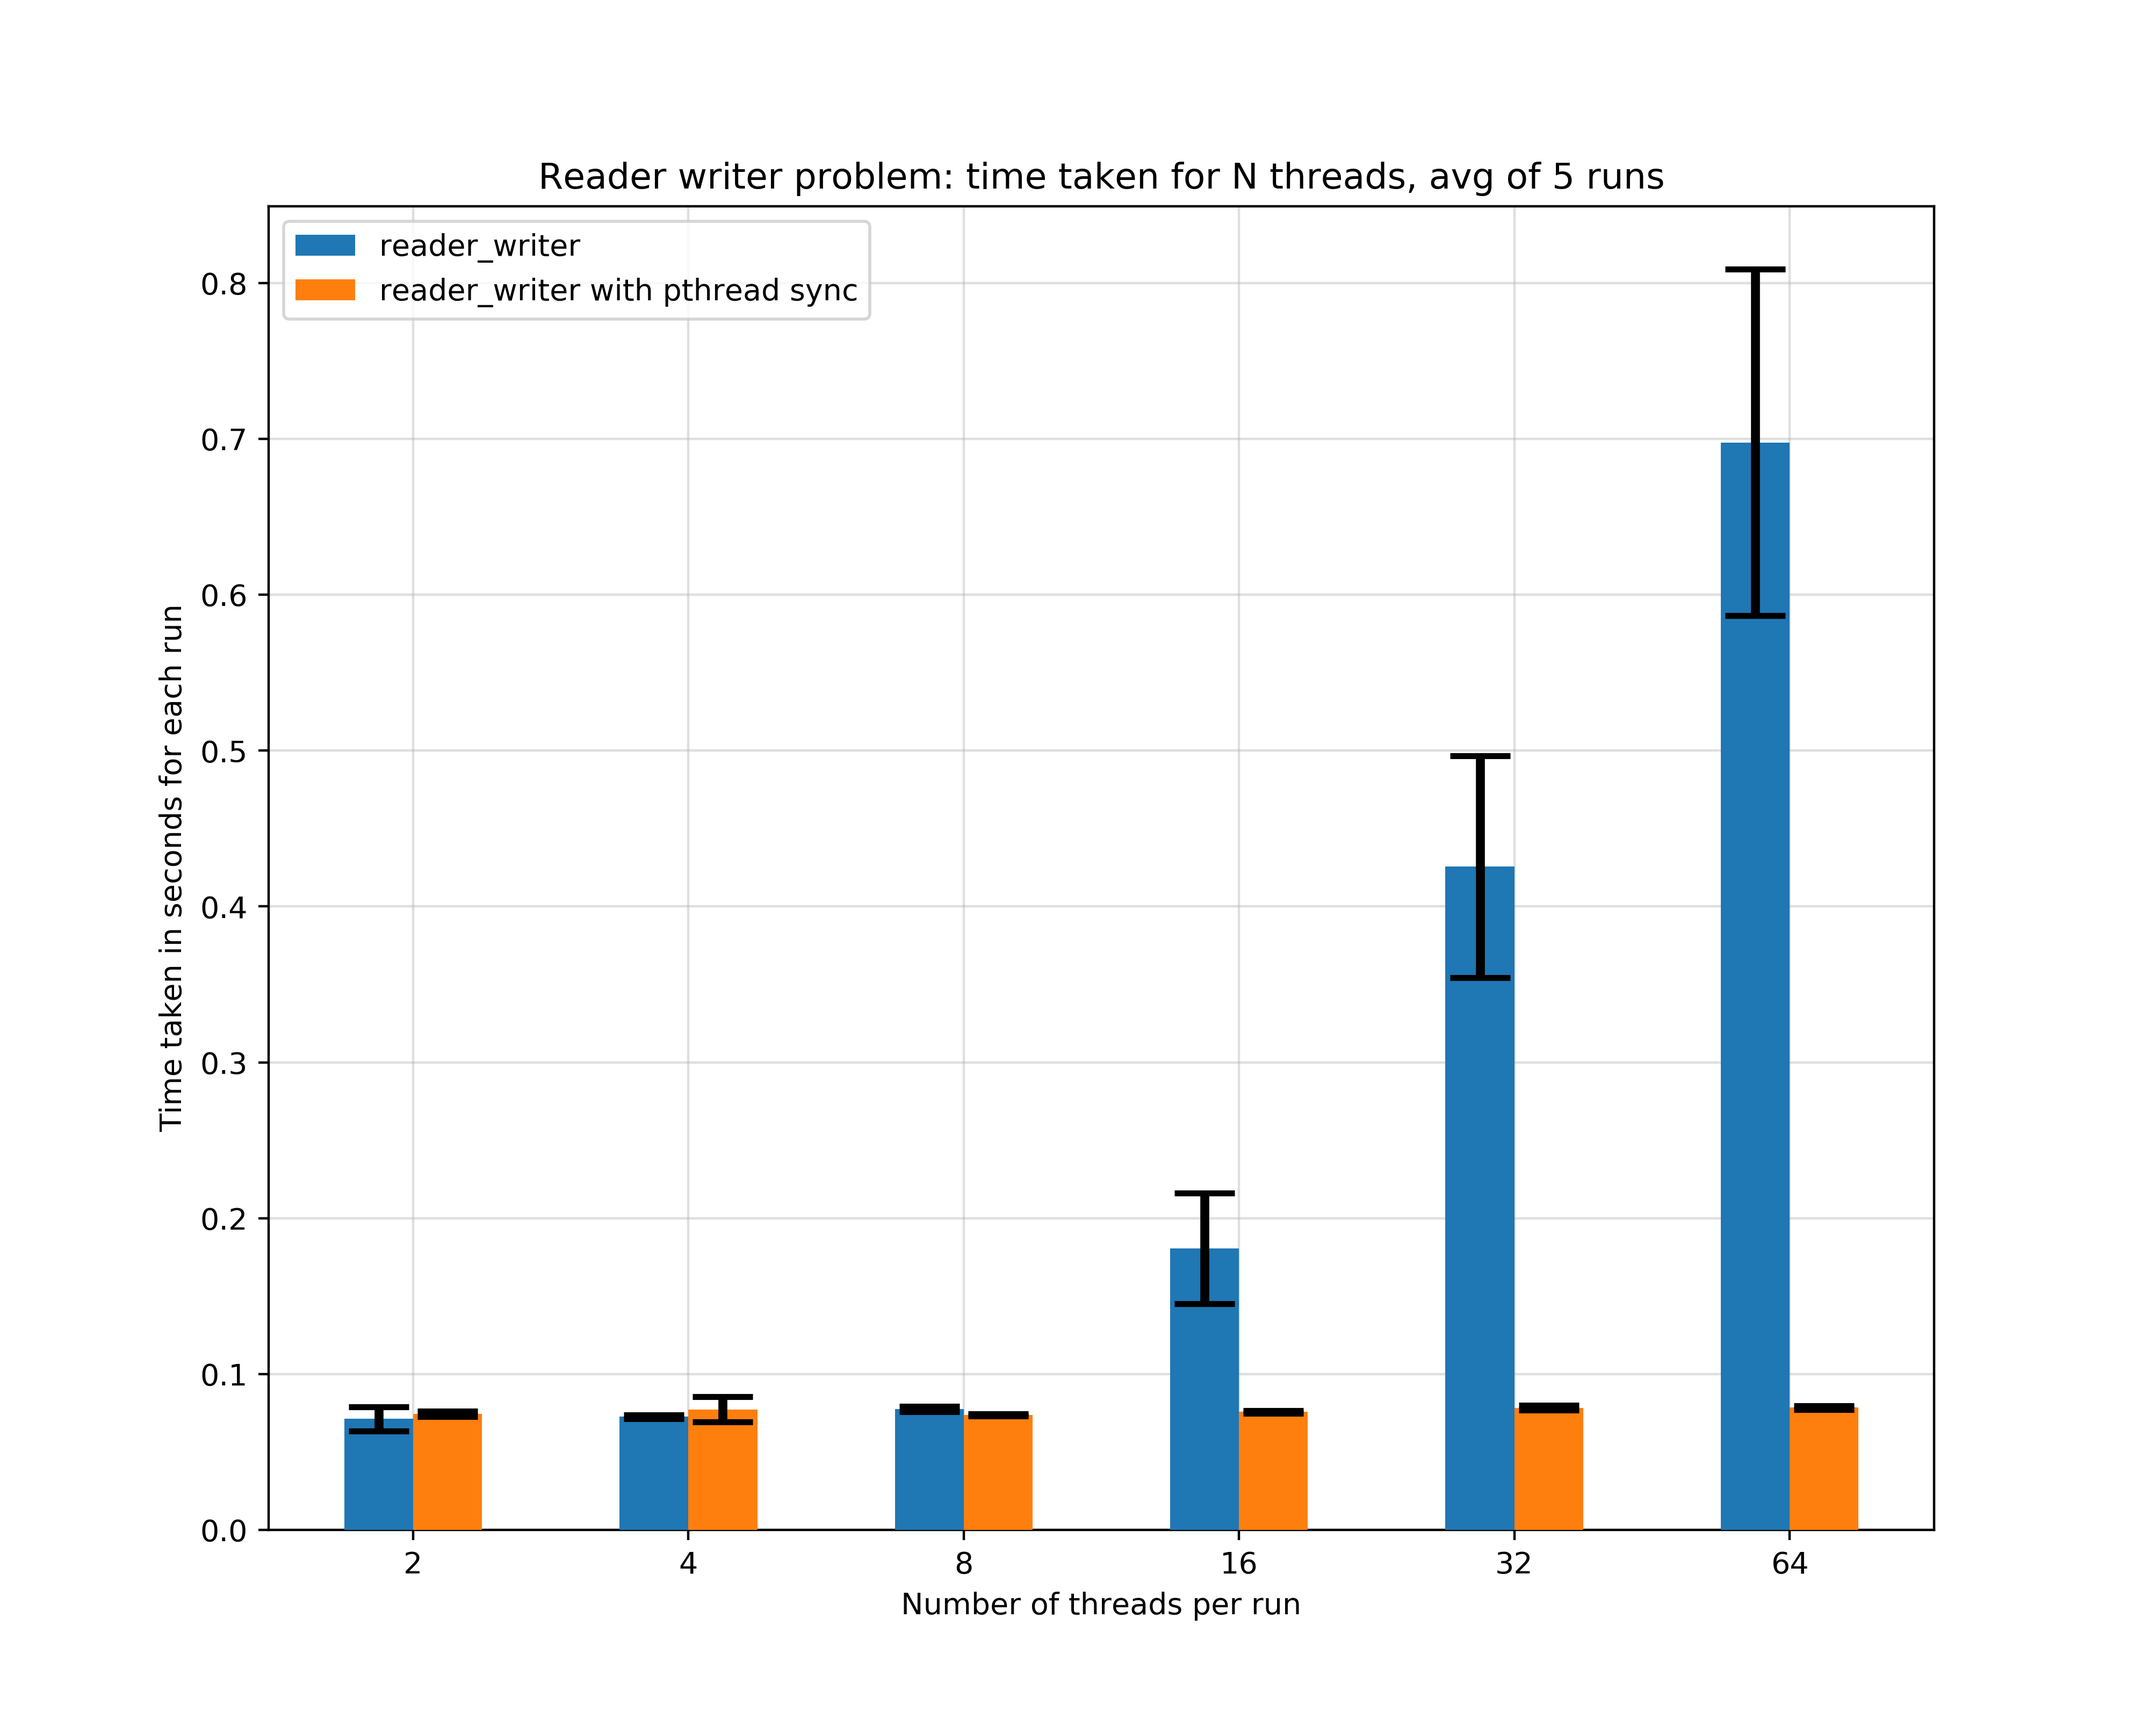
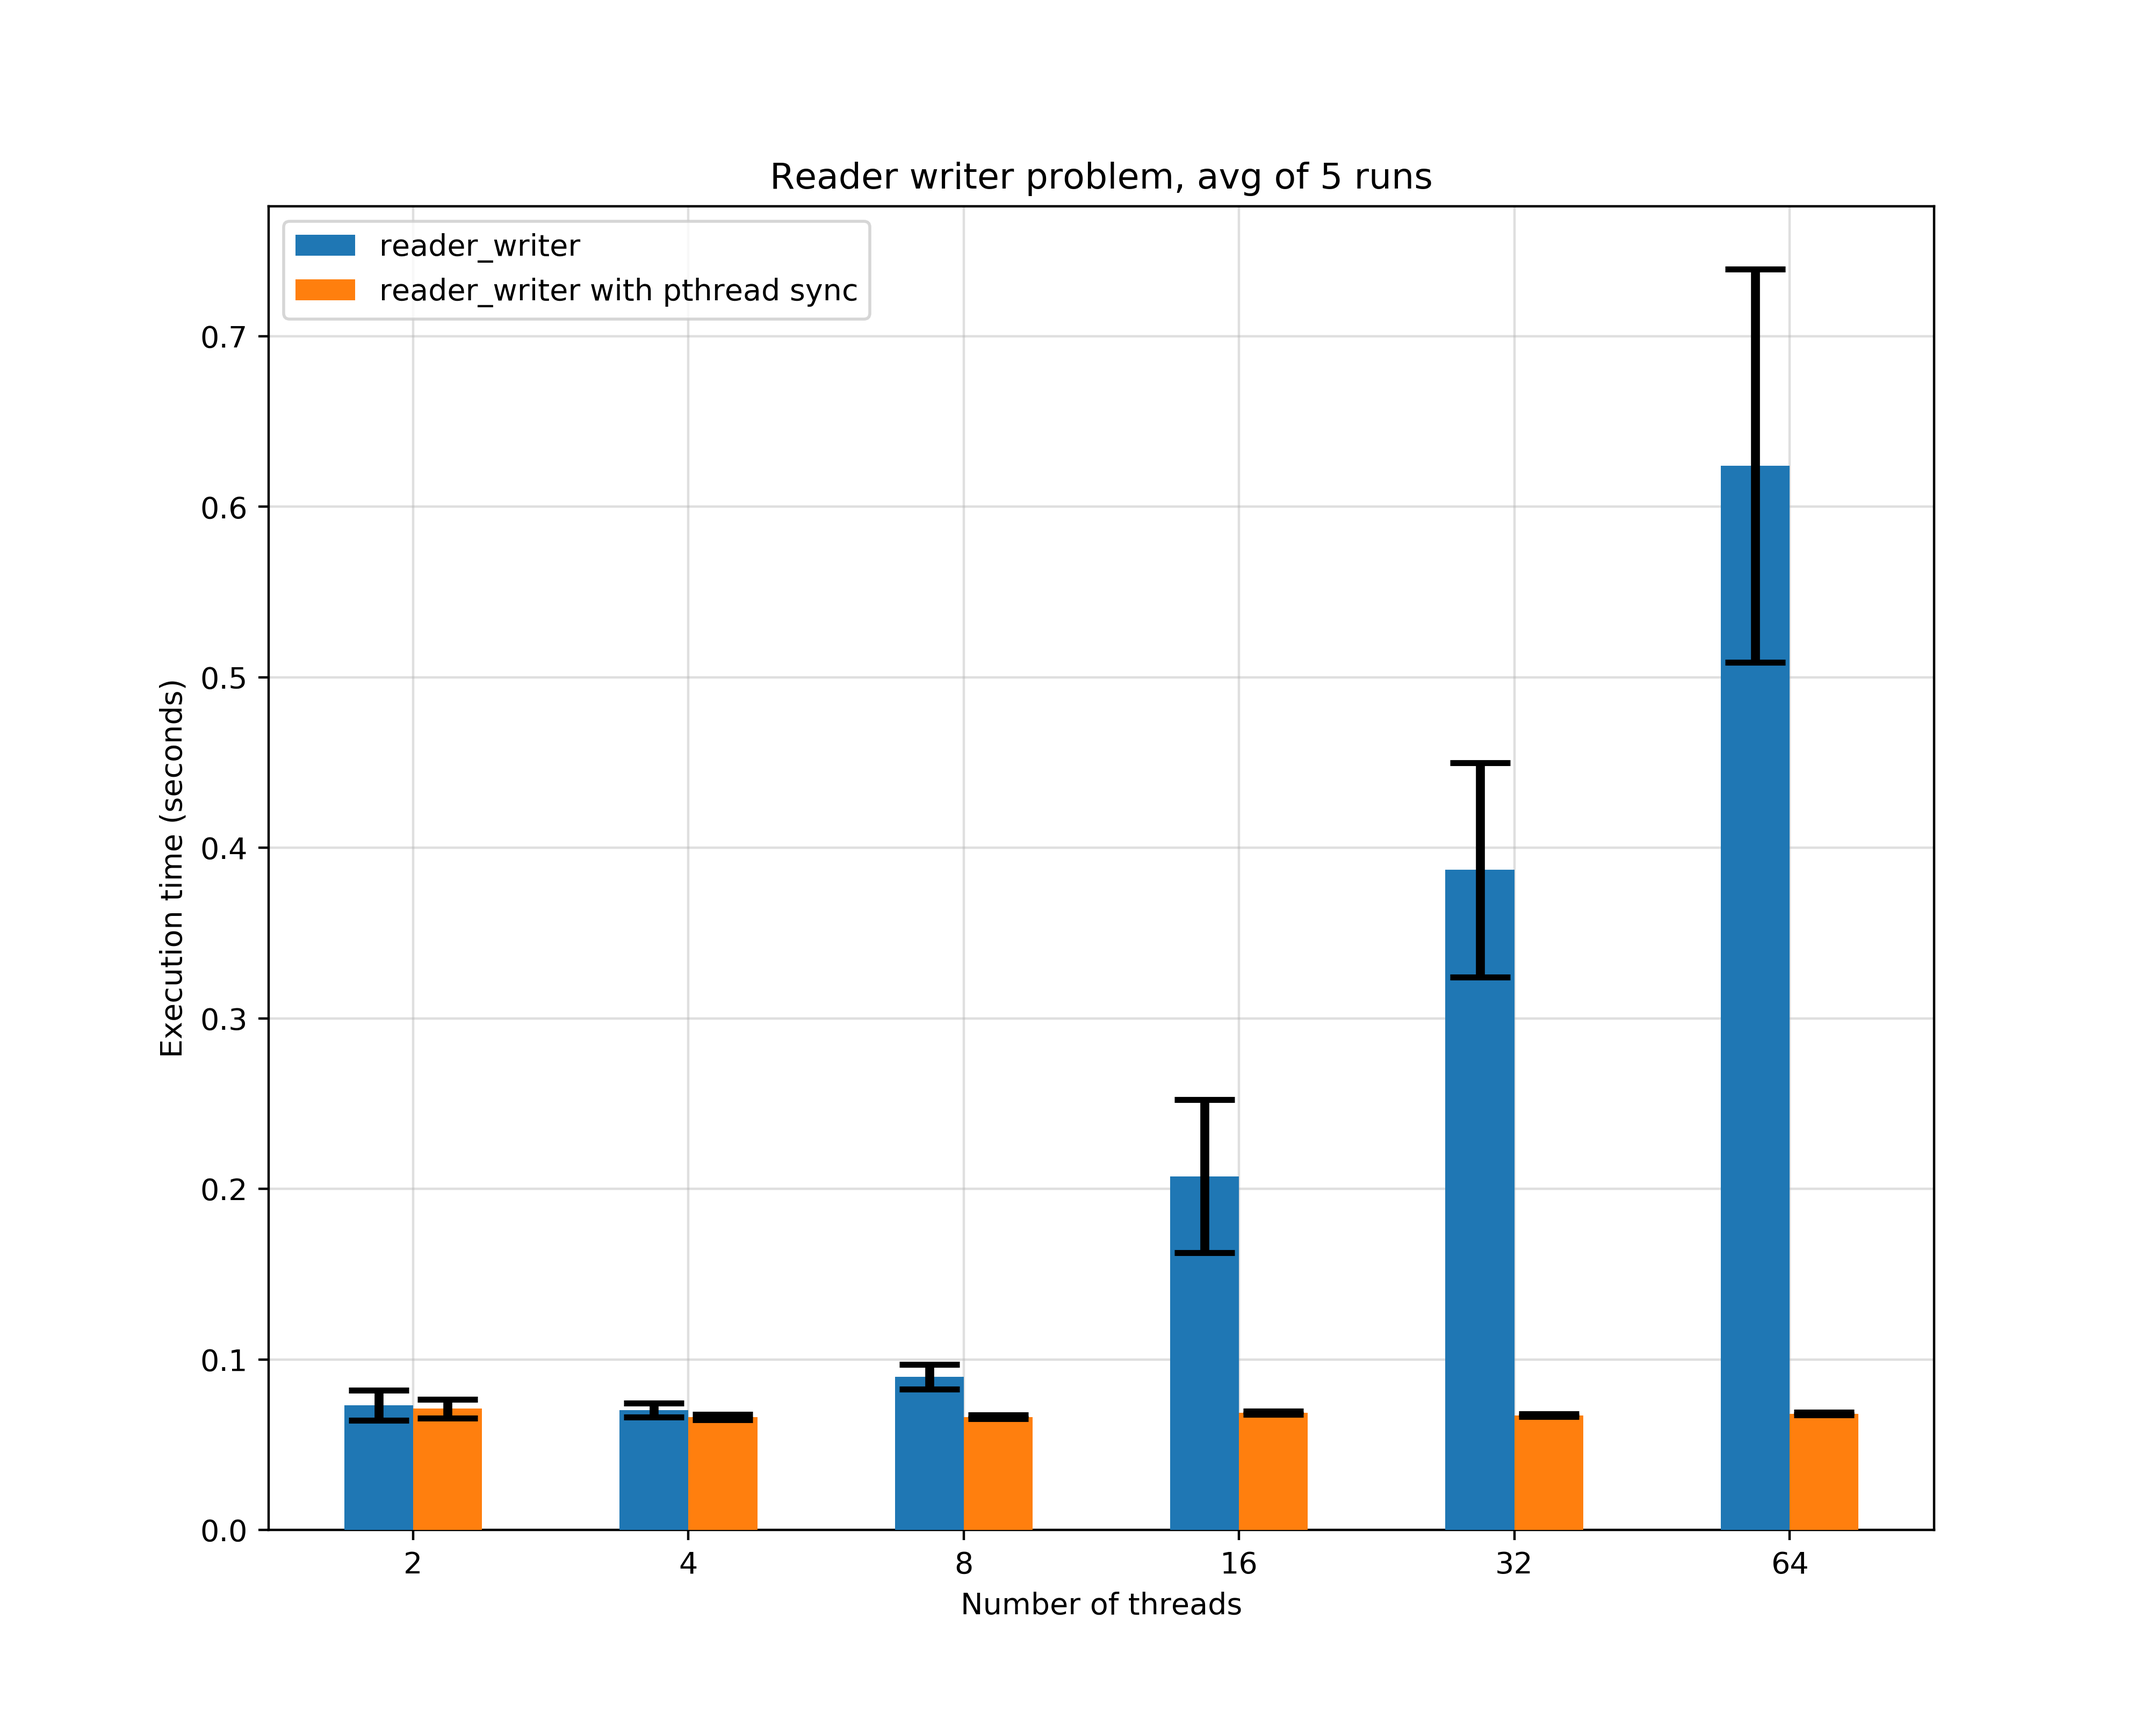
reran tests on ingi server

diff --git a/analysis.py b/analysis.py
@@ -7,6 +7,10 @@ from enum import Enum
 
 import numpy as np
 
+USING_INGI_DATA = False
+file_path = "./data/"
+if USING_INGI_DATA:
+    file_path += "ingi_server_data/"
 
 class CurrentProblem(Enum):
     PHILOSOPHERS = "philosophers"
@@ -28,8 +32,12 @@ def plot_file(new_problem, pthread_problem):
 
     pthread_problem_y = []
     pthread_problem_y_err = []
+    
 
-    with open(f"./data/{new_problem}.csv") as file:
+    extension = ""
+    if USING_INGI_DATA:
+        extension+="_server"
+    with open(f"{file_path}{new_problem}{extension}.csv") as file:
         reader = csv.reader(file, delimiter=",")
         for row in reader:
             threads.append(int(row[0]))
@@ -42,7 +50,7 @@ def plot_file(new_problem, pthread_problem):
             y_err.append(stdev)
             y.append(statistics.mean(float_row))
 
-    with open(f"./data/{pthread_problem}.csv") as f2:
+    with open(f"{file_path}{pthread_problem}{extension}.csv") as f2:
         reader2 = csv.reader(f2, delimiter=",")
         for row2 in reader2:
             float_row2 = []
@@ -81,13 +89,13 @@ def plot_file(new_problem, pthread_problem):
 
     plt.xticks(X_axis, X_labels)
 
-    plt.title(f"{name.capitalize()} problem: time taken for N threads, avg of 5 runs")
+    plt.title(f"{name.capitalize()} problem, avg of 5 runs")
 
-    plt.xlabel("Number of threads per run")
-    plt.ylabel("Time taken in seconds for each run")
+    plt.xlabel("Number of threads")
+    plt.ylabel("Execution time (seconds)")
     plt.grid(alpha=0.4, zorder=0)
     plt.legend()
-    plt.savefig(f'./data/figure_{new_problem}.png', dpi=400, transparent=False)
+    plt.savefig(f'{file_path}figure_{new_problem}.png', dpi=400, transparent=False)
     # plt.show()
 
 
